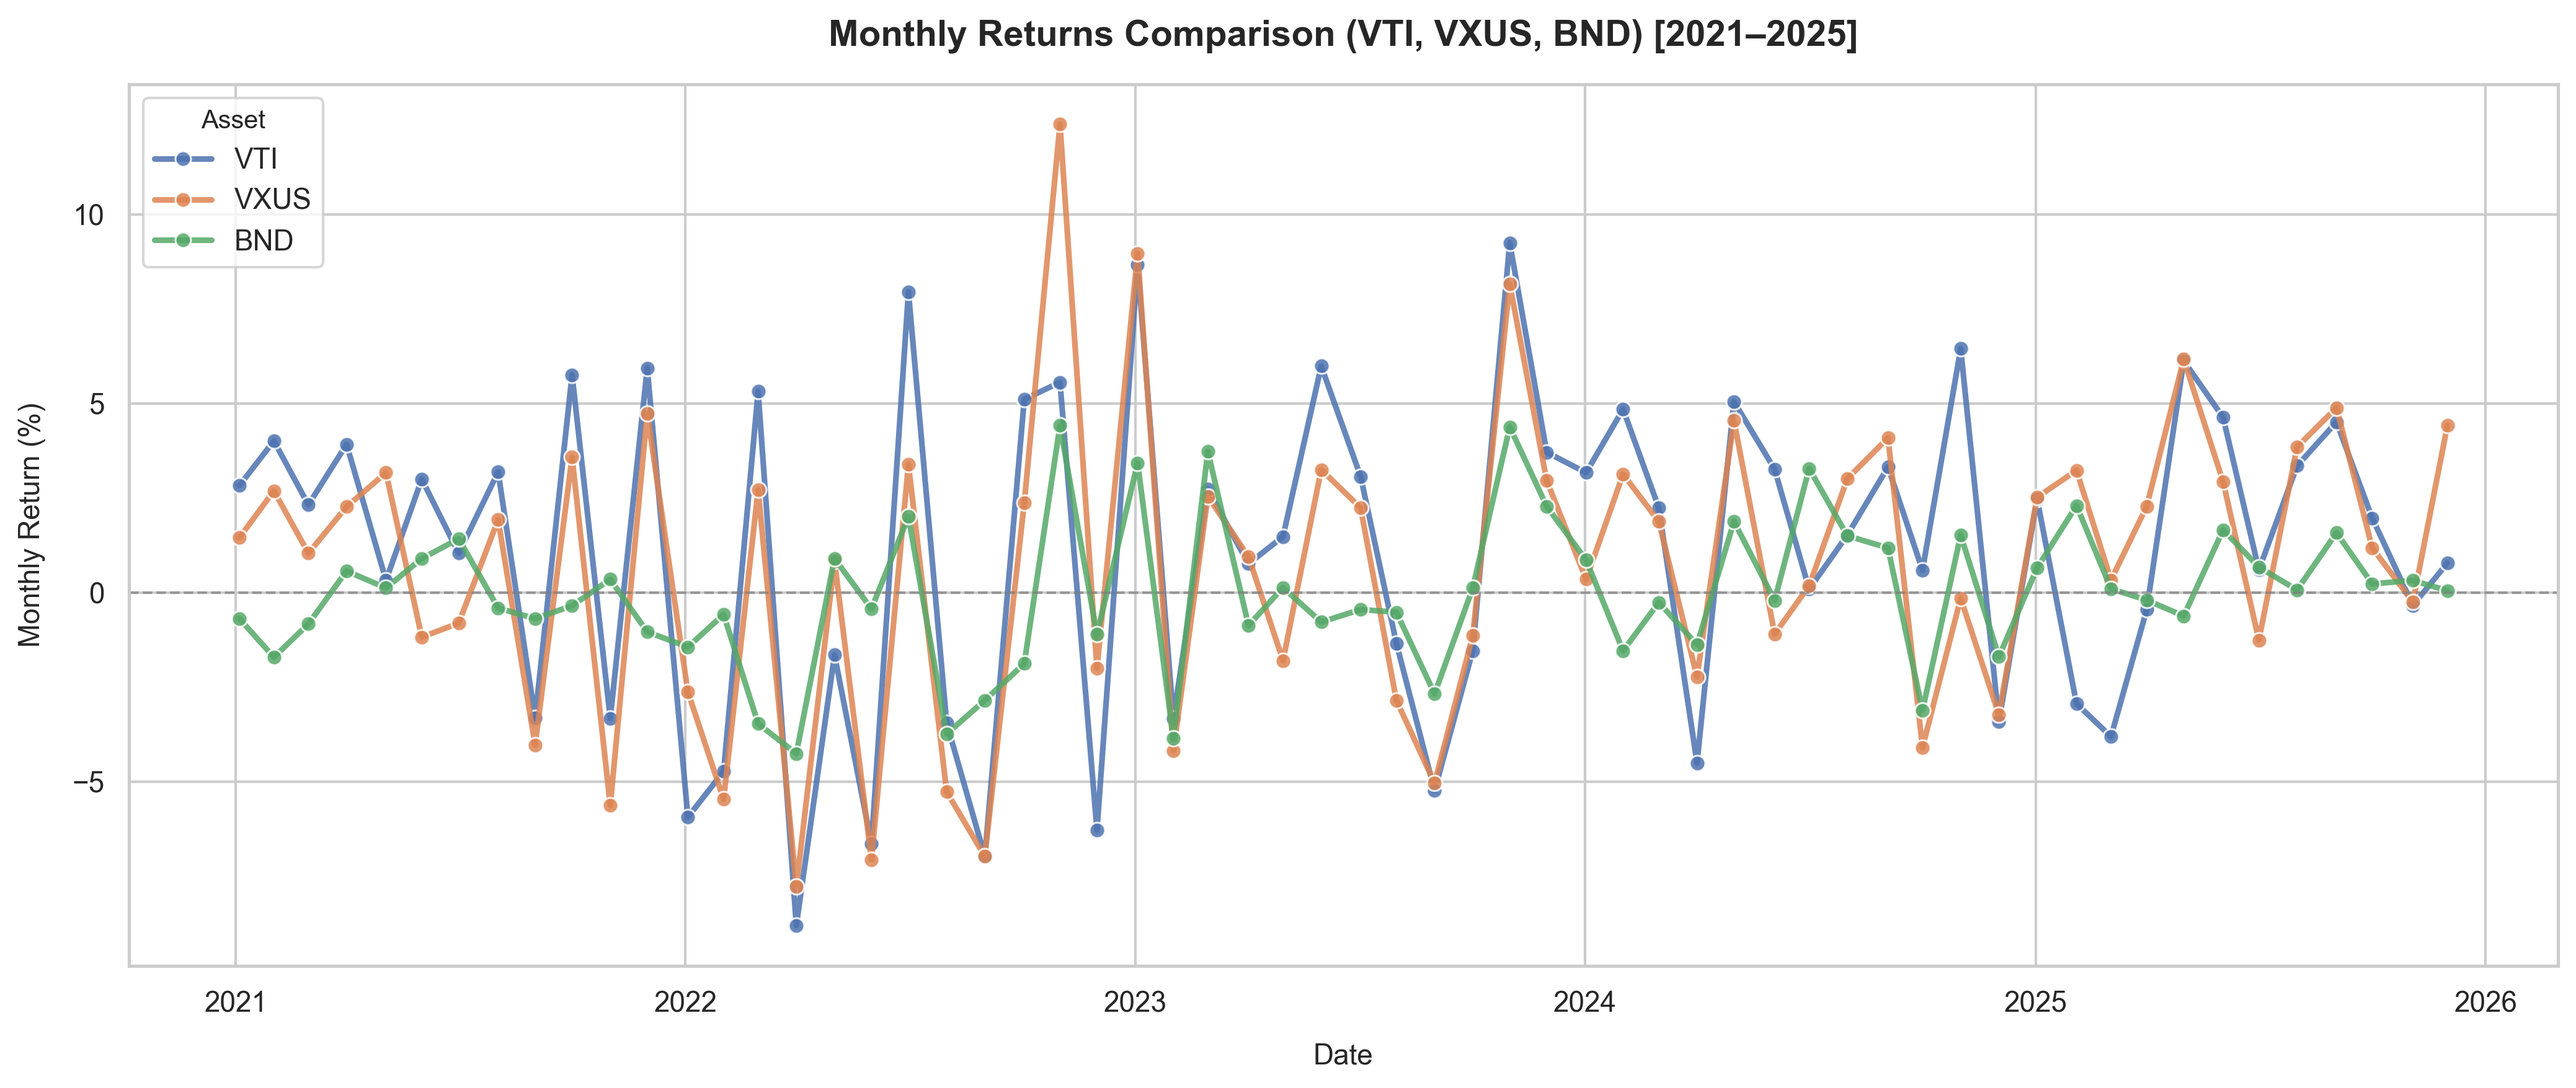
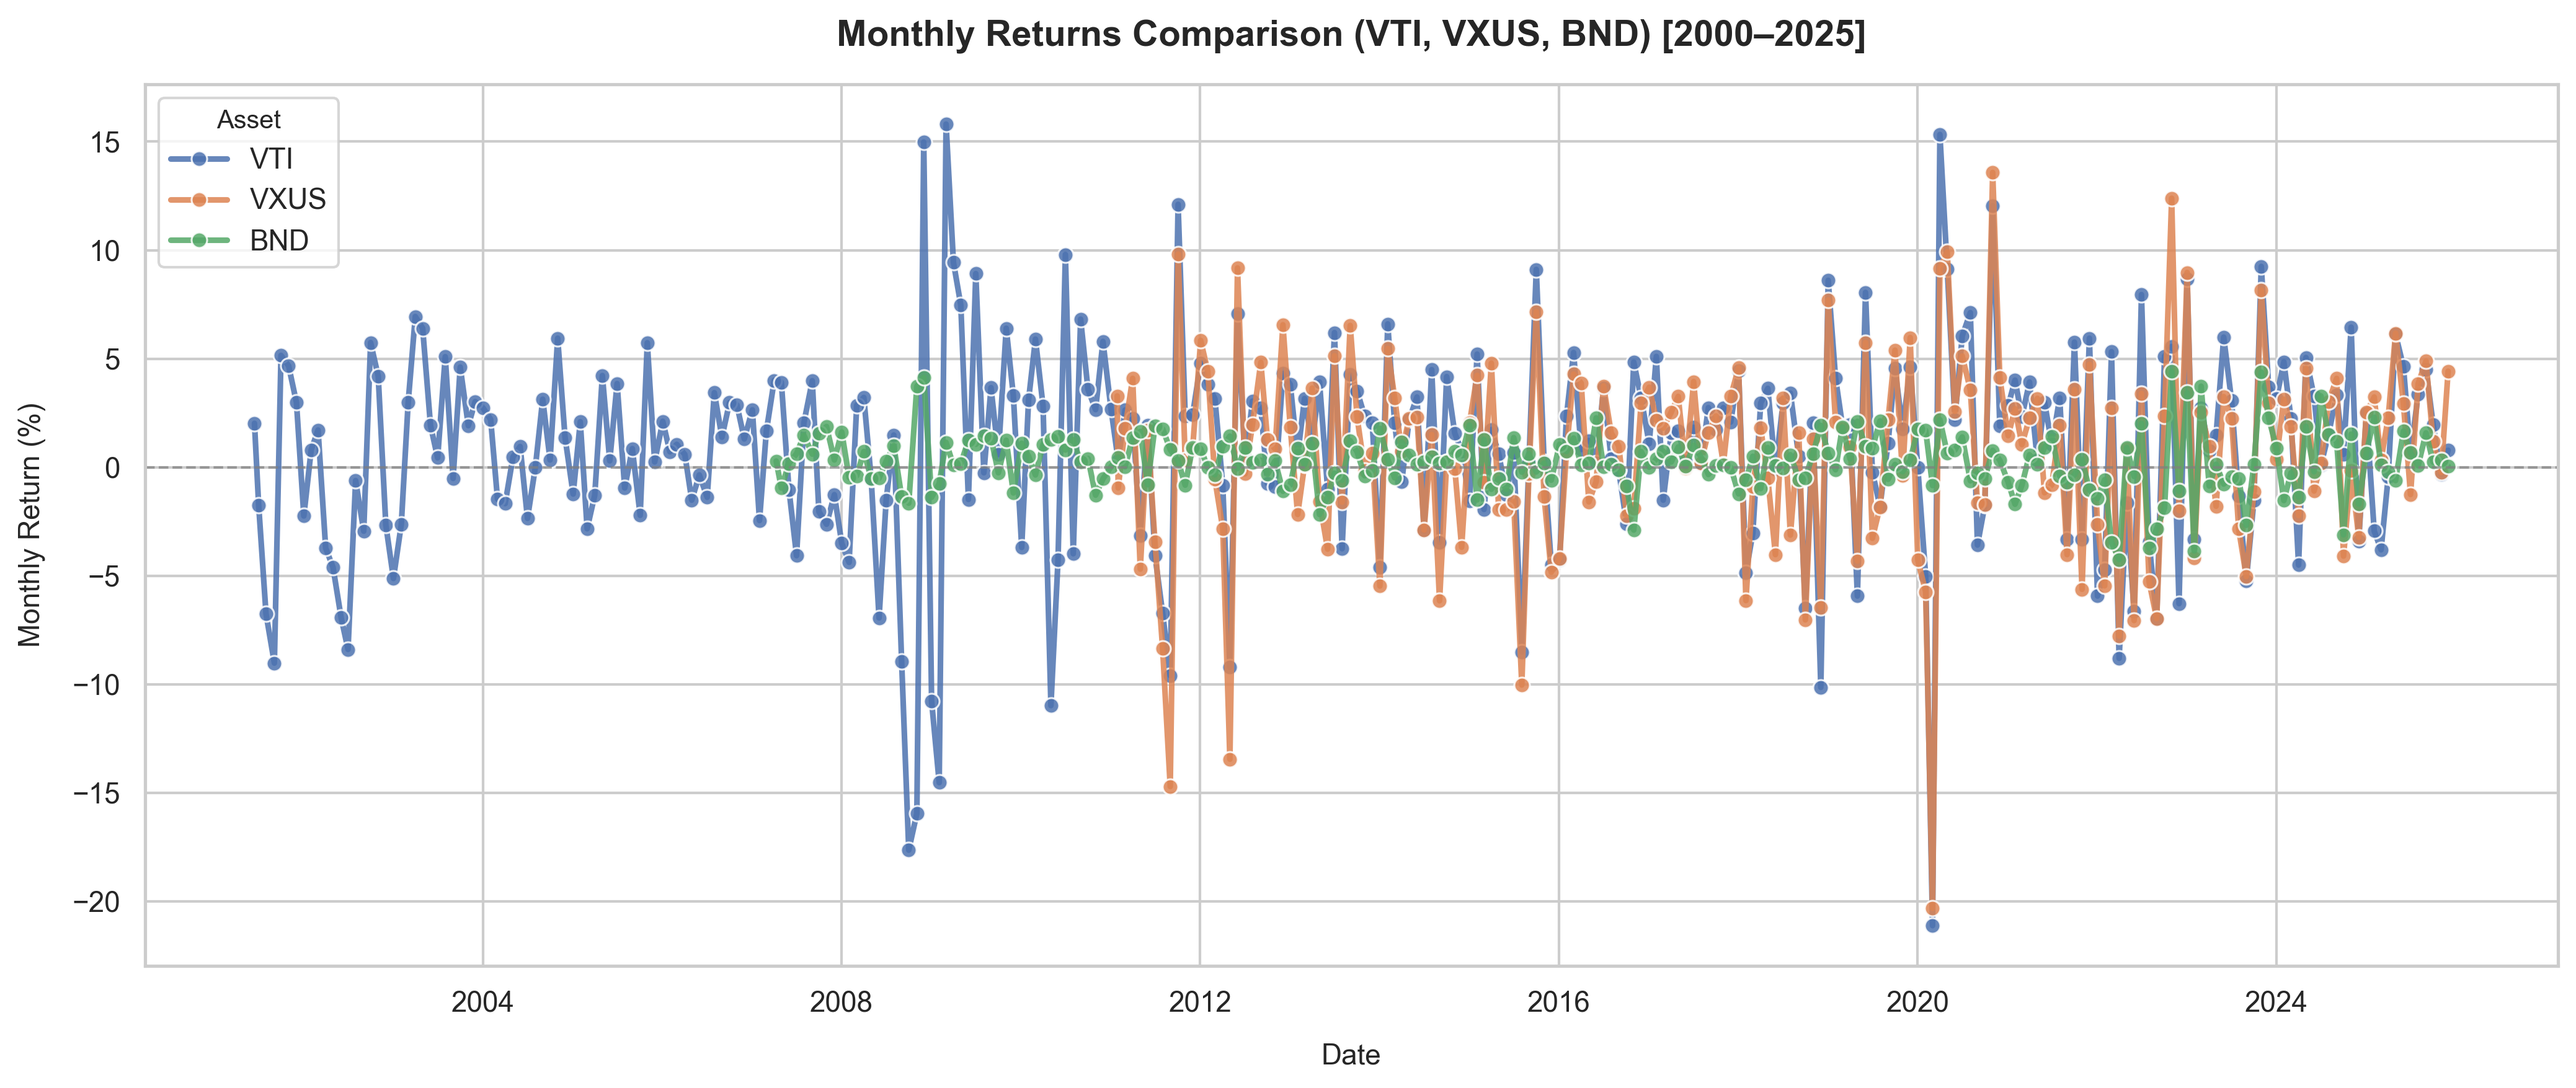
Need a better way to justify why I want to start with a Bond Equity split as a baseline instead of full Equity

diff --git a/visualizations/returns_over_time/plot.py b/visualizations/returns_over_time/plot.py
@@ -60,5 +60,5 @@ if __name__ == "__main__":
   # Specify assets and time frame
   target_tickers = ["VTI", "VXUS", "BND"]
   plot_ticker_monthly_returns(
-      tickers=target_tickers, start_year=2021, end_year=2025
+      tickers=target_tickers, start_year=2000, end_year=2025
   )
